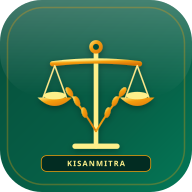
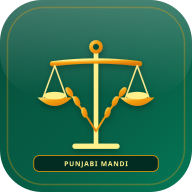
chore: rebrand project to Punjabi Mandi Software

Changed region(s): [[0.3125, 0.8125, 0.6875, 0.875], [0.75, 0.7812, 0.8438, 0.9062], [0.1562, 0.7812, 0.25, 0.9062]]

diff --git a/src/components/PWAInstallModal.tsx b/src/components/PWAInstallModal.tsx
@@ -63,13 +63,13 @@ export const PWAInstallModal: React.FC<PWAInstallModalProps> = ({ isOpen, onClos
 
           <div className="flex items-center gap-3">
             <div className="w-14 h-14 rounded-2xl bg-gradient-to-br from-amber-400 to-amber-500 p-2 shadow-lg flex items-center justify-center border-2 border-white/40 shrink-0">
-              <img src="/icon.svg" alt="KisanMitra ERP" className="w-full h-full object-contain" />
+              <img src="/icon.svg" alt="Punjabi Mandi Software" className="w-full h-full object-contain" />
             </div>
             <div>
               <div className="flex items-center gap-2">
-                <h3 className="text-lg font-black text-white">KisanMitra ERP ਐਪ ਇੰਸਟਾਲ ਕਰੋ</h3>
+                <h3 className="text-lg font-black text-white">Punjabi Mandi Software ਐਪ ਇੰਸਟਾਲ ਕਰੋ</h3>
                 <span className="px-2 py-0.5 bg-amber-400 text-emerald-950 font-black text-[10px] rounded-full uppercase tracking-wider">
-                  PWA App
+                  ਪੰਜਾਬੀ ਮੰਡੀ ਐਪ
                 </span>
               </div>
               <p className="text-xs text-emerald-200 mt-0.5">
@@ -130,7 +130,7 @@ export const PWAInstallModal: React.FC<PWAInstallModalProps> = ({ isOpen, onClos
               <CheckCircle2 className="w-6 h-6 text-emerald-600 shrink-0" />
               <div>
                 <p className="font-bold text-sm">ਐਪ ਪਹਿਲਾਂ ਹੀ ਇੰਸਟਾਲ ਹੈ!</p>
-                <p className="text-[11px] text-emerald-700">ਤੁਸੀਂ ਇਸ ਵੇਲੇ KisanMitra ERP ਨੂੰ ਸਿੱਧੀ ਇੰਸਟਾਲ ਹੋਈ ਐਪ ਵਜੋਂ ਵਰਤ ਰਹੇ ਹੋ।</p>
+                <p className="text-[11px] text-emerald-700">ਤੁਸੀਂ ਇਸ ਵੇਲੇ Punjabi Mandi Software ਨੂੰ ਸਿੱਧੀ ਇੰਸਟਾਲ ਹੋਈ ਐਪ ਵਜੋਂ ਵਰਤ ਰਹੇ ਹੋ।</p>
               </div>
             </div>
           )}
@@ -175,7 +175,7 @@ export const PWAInstallModal: React.FC<PWAInstallModalProps> = ({ isOpen, onClos
                         ਲਿਸਟ ਵਿੱਚੋਂ <strong>&quot;Install app&quot;</strong> ਜਾਂ <strong>&quot;Add to Home screen (ਹੋਮ ਸਕ੍ਰੀਨ 'ਤੇ ਜੋੜੋ)&quot;</strong> ਉੱਤੇ ਕਲਿੱਕ ਕਰੋ।
                       </li>
                       <li>
-                        <strong>&quot;Install&quot;</strong> ਦਬਾਓ — KisanMitra ERP ਤੁਹਾਡੇ ਮੋਬਾਈਲ ਵਿੱਚ WhatsApp ਵਾਂਗ ਇੱਕ ਐਪ ਬਣ ਜਾਵੇਗੀ!
+                        <strong>&quot;Install&quot;</strong> ਦਬਾਓ — Punjabi Mandi Software ਤੁਹਾਡੇ ਮੋਬਾਈਲ ਵਿੱਚ WhatsApp ਵਾਂਗ ਇੱਕ ਓਰਿਜਨਲ ਐਪ ਬਣ ਜਾਵੇਗੀ!
                       </li>
                     </ol>
                   </div>
@@ -239,10 +239,10 @@ export const PWAInstallModal: React.FC<PWAInstallModalProps> = ({ isOpen, onClos
                         ਬ੍ਰਾਊਜ਼ਰ ਵਿੱਚ ਸਭ ਤੋਂ ਉੱਪਰ ਵੈੱਬਸਾਈਟ ਲਿੰਕ (URL Bar) ਦੇ ਸੱਜੇ ਪਾਸੇ <strong>ਇੰਸਟਾਲ ਆਈਕਨ (🖥 ਜਾਂ ⬇)</strong> 'ਤੇ ਕਲਿੱਕ ਕਰੋ।
                       </li>
                       <li>
-                        ਜਾਂ ਉੱਪਰ ਸੱਜੇ <strong>3 ਬਿੰਦੂ (⋮)</strong> 'ਤੇ ਕਲਿੱਕ ਕਰਕੇ <strong>&quot;Install KisanMitra ERP&quot;</strong> ਚੁਣੋ।
+                        ਜਾਂ ਉੱਪਰ ਸੱਜੇ <strong>3 ਬਿੰਦੂ (⋮)</strong> 'ਤੇ ਕਲਿੱਕ ਕਰਕੇ <strong>&quot;Install Punjabi Mandi Software&quot;</strong> ਚੁਣੋ।
                       </li>
                       <li>
-                        ਲੈਪਟਾਪ ਦੀ ਡੈਸਕਟਾਪ ਸਕ੍ਰੀਨ 'ਤੇ KisanMitra ਦਾ ਆਈਕਨ ਬਣ ਜਾਵੇਗਾ ਅਤੇ ਇਹ ਵੱਖਰੀ ਵਿੰਡੋ ਵਿੱਚ ਬਿਨਾਂ ਬ੍ਰਾਊਜ਼ਰ ਟੈਬਸ ਦੇ ਖੁੱਲ੍ਹੇਗੀ।
+                        ਲੈਪਟਾਪ ਦੀ ਡੈਸਕਟਾਪ ਸਕ੍ਰੀਨ 'ਤੇ Punjabi Mandi Software ਦਾ ਆਈਕਨ ਬਣ ਜਾਵੇਗਾ ਅਤੇ ਇਹ ਵੱਖਰੀ ਵਿੰਡੋ ਵਿੱਚ ਬਿਨਾਂ ਬ੍ਰਾਊਜ਼ਰ ਟੈਬਸ ਦੇ ਖੁੱਲ੍ਹੇਗੀ।
                       </li>
                     </ol>
                   </div>

diff --git a/index.html b/index.html
@@ -3,16 +3,16 @@
   <head>
     <meta charset="UTF-8" />
     <meta name="viewport" content="width=device-width, initial-scale=1.0, maximum-scale=1.0, user-scalable=no" />
-    <title>KisanMitra ERP - Mandi Management</title>
-    <meta name="description" content="Digital Mandi and Commission Agency (ਆੜ੍ਹਤ) management for Punjab grain markets with multi-lingual voice/text processing and automated cloud spreadsheet syncing." />
+    <title>Punjabi Mandi Software - ਪੰਜਾਬੀ ਮੰਡੀ ਸਾਫਟਵੇਅਰ</title>
+    <meta name="description" content="Punjabi Mandi Software - Digital Mandi and Commission Agency (ਆੜ੍ਹਤ) management for Punjab grain markets with automated cloud spreadsheet syncing." />
     
     <!-- PWA & Mobile Web App Meta Tags -->
     <meta name="theme-color" content="#064e3b" />
     <meta name="mobile-web-app-capable" content="yes" />
     <meta name="apple-mobile-web-app-capable" content="yes" />
     <meta name="apple-mobile-web-app-status-bar-style" content="black-translucent" />
-    <meta name="apple-mobile-web-app-title" content="KisanMitra" />
-    <meta name="application-name" content="KisanMitra ERP" />
+    <meta name="apple-mobile-web-app-title" content="PunjabiMandi" />
+    <meta name="application-name" content="Punjabi Mandi Software" />
     <meta name="msapplication-TileColor" content="#064e3b" />
 
     <!-- Icons -->
@@ -22,7 +22,7 @@
     <link rel="shortcut icon" href="/favicon.ico" />
 
     <!-- Open Graph -->
-    <meta property="og:title" content="KisanMitra ERP - Mandi Management" />
+    <meta property="og:title" content="Punjabi Mandi Software - ਪੰਜਾਬੀ ਮੰਡੀ ਸਾਫਟਵੇਅਰ" />
     <meta property="og:description" content="Digital Mandi and Commission Agency (ਆੜ੍ਹਤ) management for Punjab grain markets with multi-lingual voice/text processing and automated cloud spreadsheet syncing." />
     <meta property="og:type" content="website" />
     <meta property="og:image" content="/pwa-512x512.png" />

diff --git a/src/components/Header.tsx b/src/components/Header.tsx
@@ -75,14 +75,14 @@ export const Header: React.FC<HeaderProps> = ({
             <div>
               <div className="flex items-center gap-2">
                 <h1 className="text-xl font-bold tracking-tight text-white flex items-center gap-2">
-                  KisanMitra ERP
+                  Punjabi Mandi Software
                   <span className="text-xs px-2 py-0.5 rounded-full bg-emerald-800/80 text-amber-300 font-semibold border border-emerald-700">
-                    ਆੜ੍ਹਤ 2.0
+                    ਪੰਜਾਬੀ ਮੰਡੀ
                   </span>
                 </h1>
               </div>
               <p className="text-xs text-emerald-200/80 flex items-center gap-1">
-                <span>ਕਿਸਾਨ ਮਿੱਤਰ ਆੜ੍ਹਤ ਸਾਫਟਵੇਅਰ</span>
+                <span>ਪੰਜਾਬੀ ਮੰਡੀ ਸਾਫਟਵੇਅਰ</span>
                 <span className="text-emerald-400">•</span>
                 <span>Punjab Mandi Commission Automation</span>
               </p>

diff --git a/src/App.tsx b/src/App.tsx
@@ -1366,7 +1366,7 @@ export default function App() {
             <div>
               <div className="flex items-center gap-2 flex-wrap">
                 <span className="font-bold text-xs sm:text-sm text-white">
-                  ਕਿਸਾਨਮਿੱਤਰ ਐਪ ਨੂੰ ਫ਼ੋਨ (APK) ਜਾਂ ਲੈਪਟਾਪ (Desktop App) ਵਜੋਂ ਇੰਸਟਾਲ ਕਰੋ
+                  ਪੰਜਾਬੀ ਮੰਡੀ ਸਾਫਟਵੇਅਰ (Punjabi Mandi Software) ਨੂੰ ਫ਼ੋਨ (APK) ਜਾਂ ਲੈਪਟਾਪ (Desktop App) ਵਜੋਂ ਇੰਸਟਾਲ ਕਰੋ
                 </span>
                 <span className="px-2 py-0.5 bg-amber-400 text-emerald-950 rounded-full font-black text-[10px]">
                   1-Click Install

diff --git a/vite.config.ts b/vite.config.ts
@@ -14,9 +14,9 @@ export default defineConfig(() => {
         includeAssets: ['favicon.ico', 'apple-touch-icon.png', 'icon.svg'],
         manifest: {
           id: '/',
-          name: 'KisanMitra ERP - Mandi Management',
-          short_name: 'KisanMitra',
-          description: 'Digital Mandi and Commission Agency (ਆੜ੍ਹਤ) management for Punjab grain markets.',
+          name: 'Punjabi Mandi Software',
+          short_name: 'PunjabiMandi',
+          description: 'Punjabi Mandi Software - Digital Mandi and Commission Agency (ਆੜ੍ਹਤ) management for Punjab grain markets.',
           theme_color: '#064e3b',
           background_color: '#064e3b',
           display: 'standalone',
